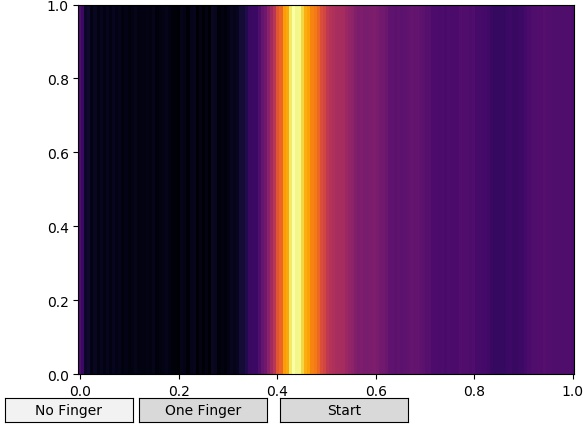
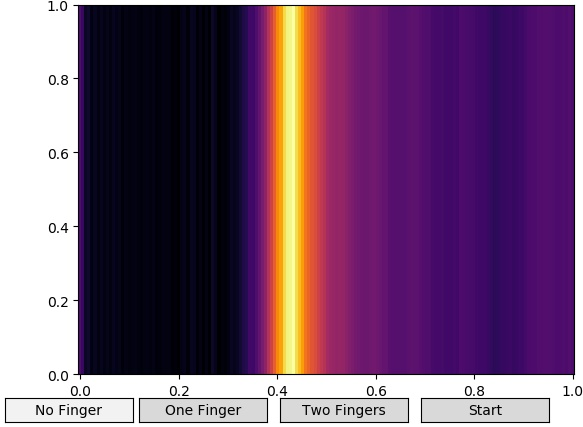
Two Fingers
not working

Changed region(s): [[0.4322, 0.0, 0.5866, 0.8829], [0.7101, 0.9133, 0.9571, 1.0], [0.5249, 0.9438, 0.6792, 0.9742]]

diff --git a/ImageClassifier_test.py b/ImageClassifier_test.py
@@ -26,6 +26,7 @@ IC = ImageClassifier.IMAGECLASSIFIER()
 ID = 0
 NoFingerID = 0 
 OneFingerID = 0
+TwoFingerID = 0
 
 def addNoFinger(e):
     global NoFingerID
@@ -36,6 +37,11 @@ def addOneFinger(e):
     global OneFingerID
     OneFingerID += 1 
     saveImage('OneFinger', OneFingerID)
+    
+def addTwoFinger(e):
+    global TwoFingerID
+    TwoFingerID += 1 
+    saveImage('TwoFinger', TwoFingerID)
 
 def start(e):
     global state
@@ -52,7 +58,11 @@ axEnd = plt.axes([0.22, 0.01, 0.2, 0.05])
 endButton = Button(axEnd, 'One Finger')
 endButton.on_clicked(addOneFinger)
 
-axF = plt.axes([0.44, 0.01, 0.2, 0.05])
+axT = plt.axes([0.44, 0.01, 0.2, 0.05])
+tButton = Button(axT, 'Two Fingers')
+tButton.on_clicked(addTwoFinger)
+
+axF = plt.axes([0.66, 0.01, 0.2, 0.05])
 fButton = Button(axF, 'Start')
 fButton.on_clicked(start)
 
@@ -74,13 +84,13 @@ def animate(i):
         SERIAL.READ()
 
         y = np.array(SERIAL.doneBUFFER.copy())
-        x = np.linspace(0, 1, 160)     
+        x = np.linspace(0, 160, 160)     
 
         extent = [x[0]-(x[1]-x[0])/2., x[-1]+(x[1]-x[0])/2.,0,1]       
 
         ax.cla()
-        im = ax.imshow(y[np.newaxis,:], cmap="inferno", aspect="auto", extent=extent)
-        
+        im = ax.imshow(y[np.newaxis,:], cmap="inferno", aspect="auto", extent=extent)        
+        ax.set_title("frame {}".format(i))
         if(state == 'takeImage'):
 
             global ID              
@@ -101,13 +111,14 @@ def animate(i):
 
             # SET BORDER THAT GETS CROPPED
             # left, up, right, bottom
-            border = (0, 0, 0, 30)
+            border = (70, 0, 0, 70)
 
             # CROP
             image = ImageOps.crop(image, border)
 
             # SAVE IMAGE
             image.save(b, format='jpeg')
+            # image.save('./RTData/image.jpg', format='jpeg')
 
             buffer_.close()
 

diff --git a/ImageClassifier/ImageClassifier.py b/ImageClassifier/ImageClassifier.py
@@ -53,7 +53,7 @@ class IMAGECLASSIFIER:
     def predictFrame(self, frame):
         # CROP FRAME
         # left, up, right, bottom
-        border = (0, 0, 0, 30)
+        border = (70, 0, 0, 70)
 
         # CROP
         frame = ImageOps.crop(frame, border)       
